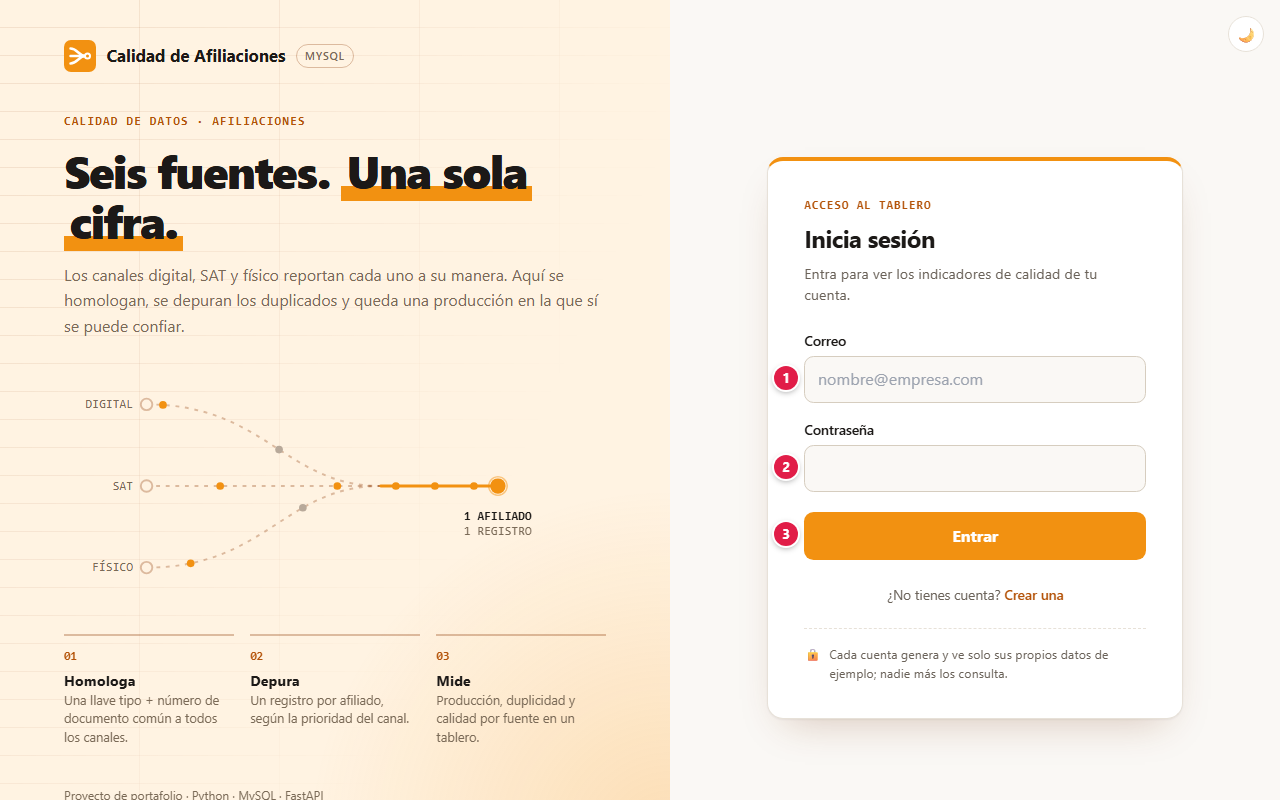
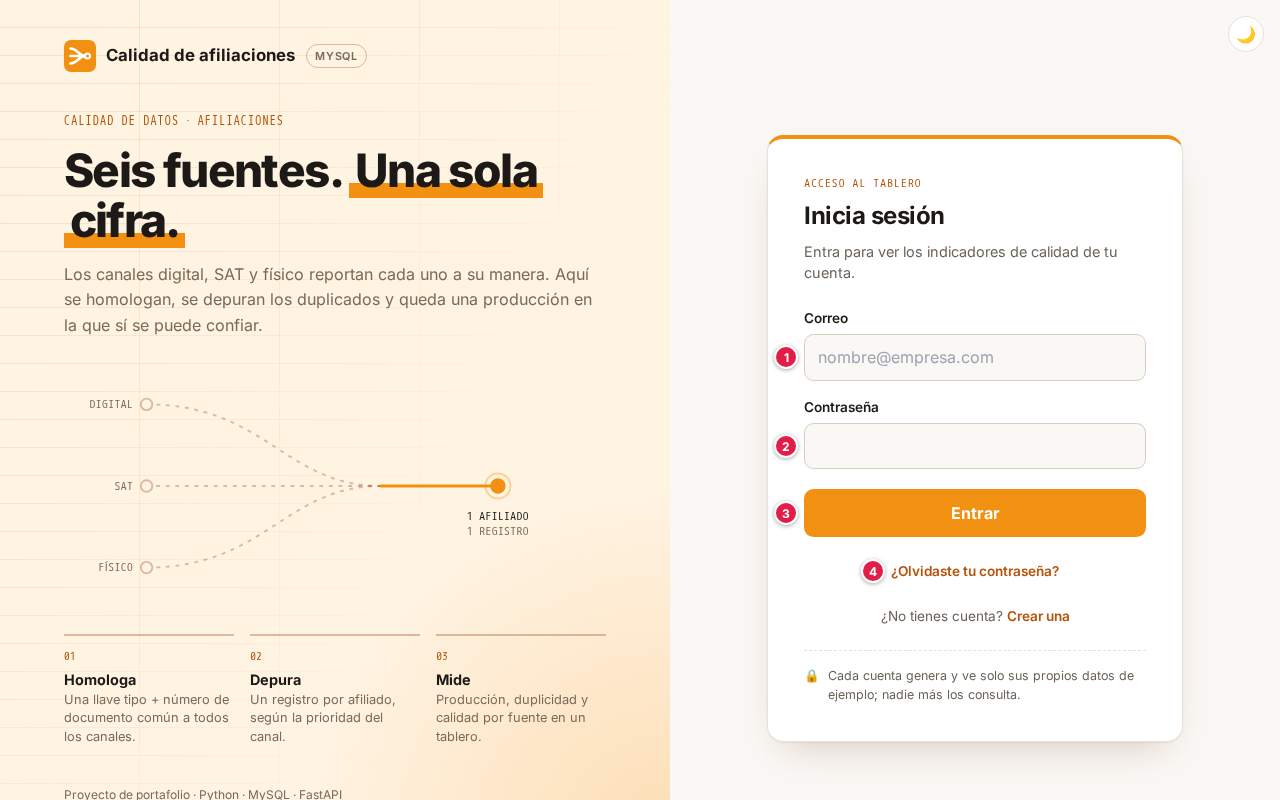
docs(manual): capturas con el nombre "Calidad de afiliaciones" y pantalla del segundo paso [skip ci]
Capturas 01 a 06 regeneradas en producción (flujo "Capturas de manuales" de
qa-evidencia) con el nombre visible actual, la barra con Contraseña y Seguridad
y el enlace "¿Olvidaste tu contraseña?". Nueva 07-verificacion.png con
"Perdí mi autenticador". Correo de ejemplo: usuario@ejemplo.com.

diff --git a/docs/MANUAL.md b/docs/MANUAL.md
@@ -114,7 +114,8 @@ El registro es libre y no requiere aprobación. Si el correo ya existe, el panel
 |:-:|---|---|
 | 1 | Correo | El correo de tu cuenta |
 | 2 | Contraseña | Tu contraseña |
-| 3 | Entrar | Pide el código de tu verificación en dos pasos; al escribirlo y pulsar **Verificar** se abre tu tablero |
+| 3 | Entrar | Pide el código de tu verificación en dos pasos (ver 4.3.3) |
+| 4 | ¿Olvidaste tu contraseña? | Enlace para crear una contraseña nueva (ver 4.3.1) |
 
 Si el correo o la contraseña no coinciden, el mensaje es el mismo en ambos casos, para no revelar
 qué correos están registrados.
@@ -147,7 +148,17 @@ cuenta) eliges cómo recibirlo:
 | **App autenticadora** (recomendado) | Escaneas un código QR con Google Authenticator, Microsoft Authenticator u otra app; desde ese momento la app muestra un código nuevo cada 30 segundos, incluso sin internet. Si no puedes escanear, escribe la clave que aparece bajo el QR. |
 | **Código por correo** | Cada vez que ingresas te llega un código de 6 dígitos que vence en 10 minutos y sirve una sola vez. |
 
-Confirma el método escribiendo el primer código. Desde **Seguridad** (barra superior) puedes
+Confirma el método escribiendo el primer código. En cada ingreso siguiente aparece esta pantalla:
+
+![Pantalla del código de verificación con sus partes numeradas](img/manual/07-verificacion.png)
+
+| # | Campo | Qué hacer |
+|:-:|---|---|
+| 1 | Código de 6 dígitos | El código que muestra tu app (o el que llegó a tu correo) |
+| 2 | Verificar | Abre tu tablero |
+| 3 | Perdí mi autenticador | Si ya no tienes la app, entra con un código enviado a tu correo (ver 4.3.4) |
+
+Desde **Seguridad** (barra superior) puedes
 **agregar el método que no elegiste** y escoger cuál se pide **por defecto**; tener los dos te
 permite entrar aunque no tengas el teléfono a mano.
 
